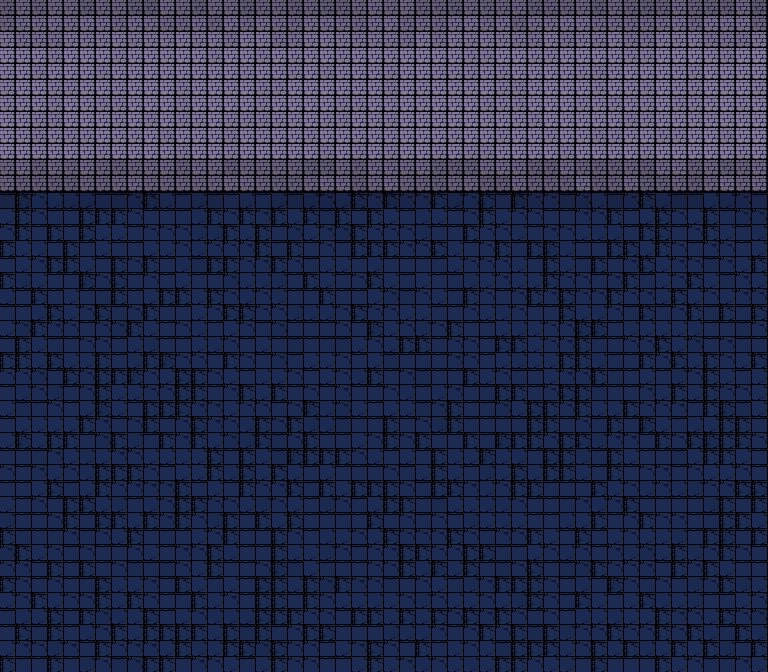
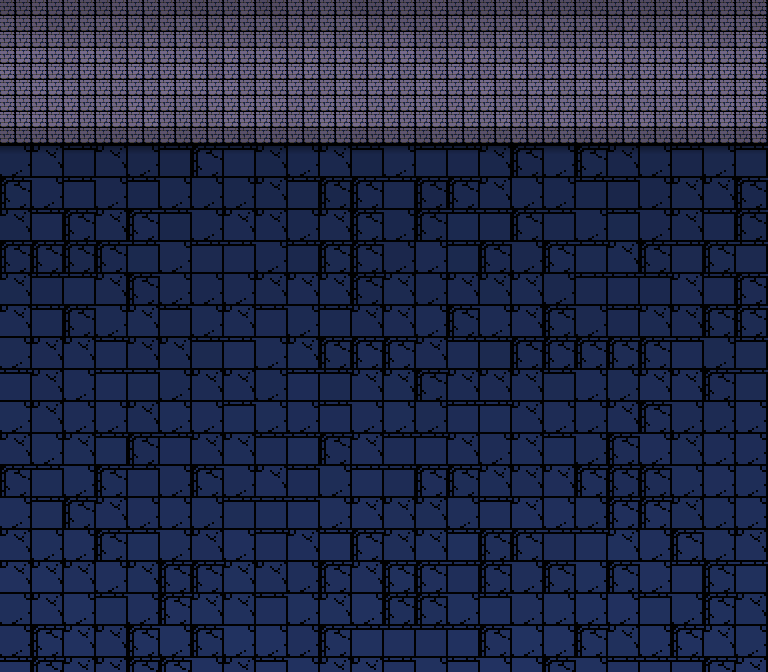
fix(combat): floor-plane rework — perspective bg, feet-anchored shadows, UI polish
Addresses the full visual critique of the combat screen:

Background (generate-combat-bg.mjs): wall band shrunk to ~21% so the
floor is the dominant plane; floor tiles drawn at 2x the wall tile size
so the two planes read differently; wall uniformly dimmed so sprites
pop against the mortar pattern; floor brightens toward the viewer;
wall/floor seam gets a baseboard-darkened trim row plus a contact
shadow cast onto the floor.

Sprites (combat-scene.ts): shadows re-anchored using measured art
bounds — the pack art's feet sit ~7% of sprite size below frame center
(not 30-34% as the old offsets assumed), which is what made shadows
read as orphaned blobs below every sprite. Party/enemy rows moved down
onto the floor plane and row spacing compressed to 78px so a third
rank stays above the taller six-item menu window. Target cursor now
bobs like the active marker and gets extra clearance above sprite art.

UI (combat-select-action-view.ts, styles.css): SP column renders a dim
dash for non-casters so a lone caster's SP no longer reads as a stray
number; party window gets right padding so HP bars don't touch the
border; row gap/SP min-width trimmed so names don't truncate.

Already implemented, verified as-is: enemy xN grouping in the roster
window, low-HP bar colors (wounded/critical thresholds).

Claude-Session: https://claude.ai/code/session_01LsaFZYsQFYDBjuxCWGVJh7

diff --git a/src/engine/combat-scene.ts b/src/engine/combat-scene.ts
@@ -61,19 +61,22 @@ const PARTY_SIZE = 210;
 /** Enemy sprite draw size for image strips. */
 const ENEMY_SIZE = 300;
 /** Vertical spacing between members of a party column. */
-const PARTY_ROW_SPACING = 92;
+const PARTY_ROW_SPACING = 78;
 /** Vertical spacing between enemies in a row. */
-const ENEMY_ROW_SPACING = 96;
+const ENEMY_ROW_SPACING = 78;
 
 /** Screen position (sprite center) of party member at array index i.
- *  The bottom ~175px of the canvas sits under the DOM menu windows, so all
- *  sprite baselines must stay above that. */
+ *  The DOM menu windows overlay the bottom of the canvas starting around
+ *  y≈365 (six-item menu), so the third rank's feet must stay above that. */
 export function partyPos(i: number, w: number, h: number): { x: number; y: number } {
   const front = i < 3;
   const idx = i % 3;
   // FF6 diagonal: each successive member a bit lower and a bit further right.
+  // topY keeps the first rank's feet (anchor + ~7% of sprite size — the pack
+  // art's baseline, see drawShadow callers) clearly on the floor plane, which
+  // starts at h*0.214 in the generated background.
   const colX = front ? w * 0.66 : w * 0.79;
-  const topY = h * 0.23 + (front ? 0 : 26);
+  const topY = h * 0.25 + (front ? 0 : 26);
   return { x: colX + idx * 12, y: topY + idx * PARTY_ROW_SPACING };
 }
 
@@ -85,7 +88,7 @@ export function enemyPos(
   h: number
 ): { x: number; y: number } {
   const colX = row === "front" ? w * 0.31 : w * 0.16;
-  const topY = h * 0.26 + (row === "back" ? 30 : 0);
+  const topY = h * 0.27 + (row === "back" ? 24 : 0);
   return { x: colX + idxInRow * 14, y: topY + idxInRow * ENEMY_ROW_SPACING };
 }
 
@@ -1338,7 +1341,10 @@ function drawPartyMember(
 
   const hidden = char.status.includes("hidden");
 
-  drawShadow(ctx, x, y + PARTY_SIZE * 0.34, PARTY_SIZE * 0.26);
+  // The pack art only fills the middle of the 100px frame: measured feet sit
+  // ~7% of the frame below center and the body spans ~25% of the frame wide,
+  // so the shadow hugs the visible sprite instead of floating detached below.
+  drawShadow(ctx, x, y + PARTY_SIZE * 0.07, PARTY_SIZE * 0.13);
 
   const stripInfo = getPartySpriteStrip(char.class, anim.state);
   const opacity = (hidden ? 0.35 : 1) * anim.opacity;
@@ -1360,9 +1366,10 @@ function drawPartyMember(
     ctx.restore();
   }
 
-  // The character art only fills the middle of the frame, so anchor the
-  // marker just above the visible sprite, not the frame edge.
-  drawMarkers(ctx, scene, "party", char.id, x, y - PARTY_SIZE * 0.26, now);
+  // The character art only fills the middle of the frame (measured art top
+  // ≈11% of sprite size above center), so anchor the marker just above the
+  // visible sprite, not the frame edge.
+  drawMarkers(ctx, scene, "party", char.id, x, y - PARTY_SIZE * 0.16, now);
 }
 
 /** Draw one enemy (living or corpse). */
@@ -1382,7 +1389,9 @@ function drawEnemy(
   const x = slot.x + off.x;
   const y = slot.y + off.y;
 
-  drawShadow(ctx, x, y + ENEMY_SIZE * 0.3, ENEMY_SIZE * 0.24);
+  // Same measured art metrics as the party sprites: feet ~7% below frame
+  // center, body ~25% of the frame wide.
+  drawShadow(ctx, x, y + ENEMY_SIZE * 0.07, ENEMY_SIZE * 0.13);
 
   const stripInfo = getEnemySpriteStrip(enemy.id, enemyStripState(anim.state));
   if (stripInfo?.img && stripInfo.img.naturalWidth > 0) {
@@ -1414,7 +1423,8 @@ function drawEnemy(
     ctx.restore();
   }
 
-  drawMarkers(ctx, scene, "enemy", enemy.instanceId, x, y - ENEMY_SIZE * 0.24, now);
+  // Tallest enemy art tops out ≈16% of sprite size above center.
+  drawMarkers(ctx, scene, "enemy", enemy.instanceId, x, y - ENEMY_SIZE * 0.2, now);
 }
 
 /** Draw a summoned ally (simple glowing elemental). */
@@ -1470,12 +1480,12 @@ function drawMarkers(
   const blink = Math.floor(now / 260) % 2 === 0;
   if (isCursor && !blink) return;
 
-  const bounce = isActive ? Math.sin(now / 180) * 3 : 0;
+  const bounce = Math.sin(now / 180) * 3;
   ctx.save();
   ctx.fillStyle = COLORS.cursor;
   ctx.strokeStyle = "#14110d";
   ctx.lineWidth = 2;
-  const y = topY - 10 + bounce;
+  const y = topY - 14 + bounce;
   // Downward-pointing FF6 hand-ish triangle.
   ctx.beginPath();
   ctx.moveTo(x - 9, y - 12);

diff --git a/src/styles.css b/src/styles.css
@@ -955,13 +955,15 @@ canvas#map-canvas {
 
 .ff6-party {
   flex: 1 1 auto;
+  /* Extra right padding so the HP bars don't kiss the window border. */
+  padding-right: 12px;
 }
 
 .ff6-party-row {
   display: grid;
   grid-template-columns: minmax(0, 1.3fr) auto auto 64px;
   align-items: baseline;
-  gap: 10px;
+  gap: 8px;
   font-size: var(--fs-body);
   line-height: 1.4;
   padding: 1px 4px;
@@ -992,9 +994,14 @@ canvas#map-canvas {
 
 .ff6-p-sp {
   text-align: right;
-  min-width: 42px;
+  min-width: 32px;
   color: #b8c4f0;
   font-variant-numeric: tabular-nums;
+}
+
+/* Non-casters show a dim dash so the SP column reads consistently. */
+.ff6-p-sp.none {
+  color: #4a5aa0;
 }
 
 .ff6-p-bar {

diff --git a/src/engine/combat-select-action-view.ts b/src/engine/combat-select-action-view.ts
@@ -205,9 +205,16 @@ function buildPartyWindow(view: CombatWindowsView): HTMLElement {
     hp.textContent = `${Math.max(0, c.hp)}/${c.maxHp}`;
     row.appendChild(hp);
 
+    // SP shows for every row (dim dash for non-casters) so the column reads
+    // as a column instead of one row having a mystery number.
     const sp = document.createElement("span");
     sp.className = "ff6-p-sp";
-    sp.textContent = c.maxSp > 0 ? `${c.sp}` : "";
+    if (c.maxSp > 0) {
+      sp.textContent = `${c.sp}`;
+    } else {
+      sp.textContent = "—";
+      sp.classList.add("none");
+    }
     row.appendChild(sp);
 
     const barWrap = document.createElement("span");